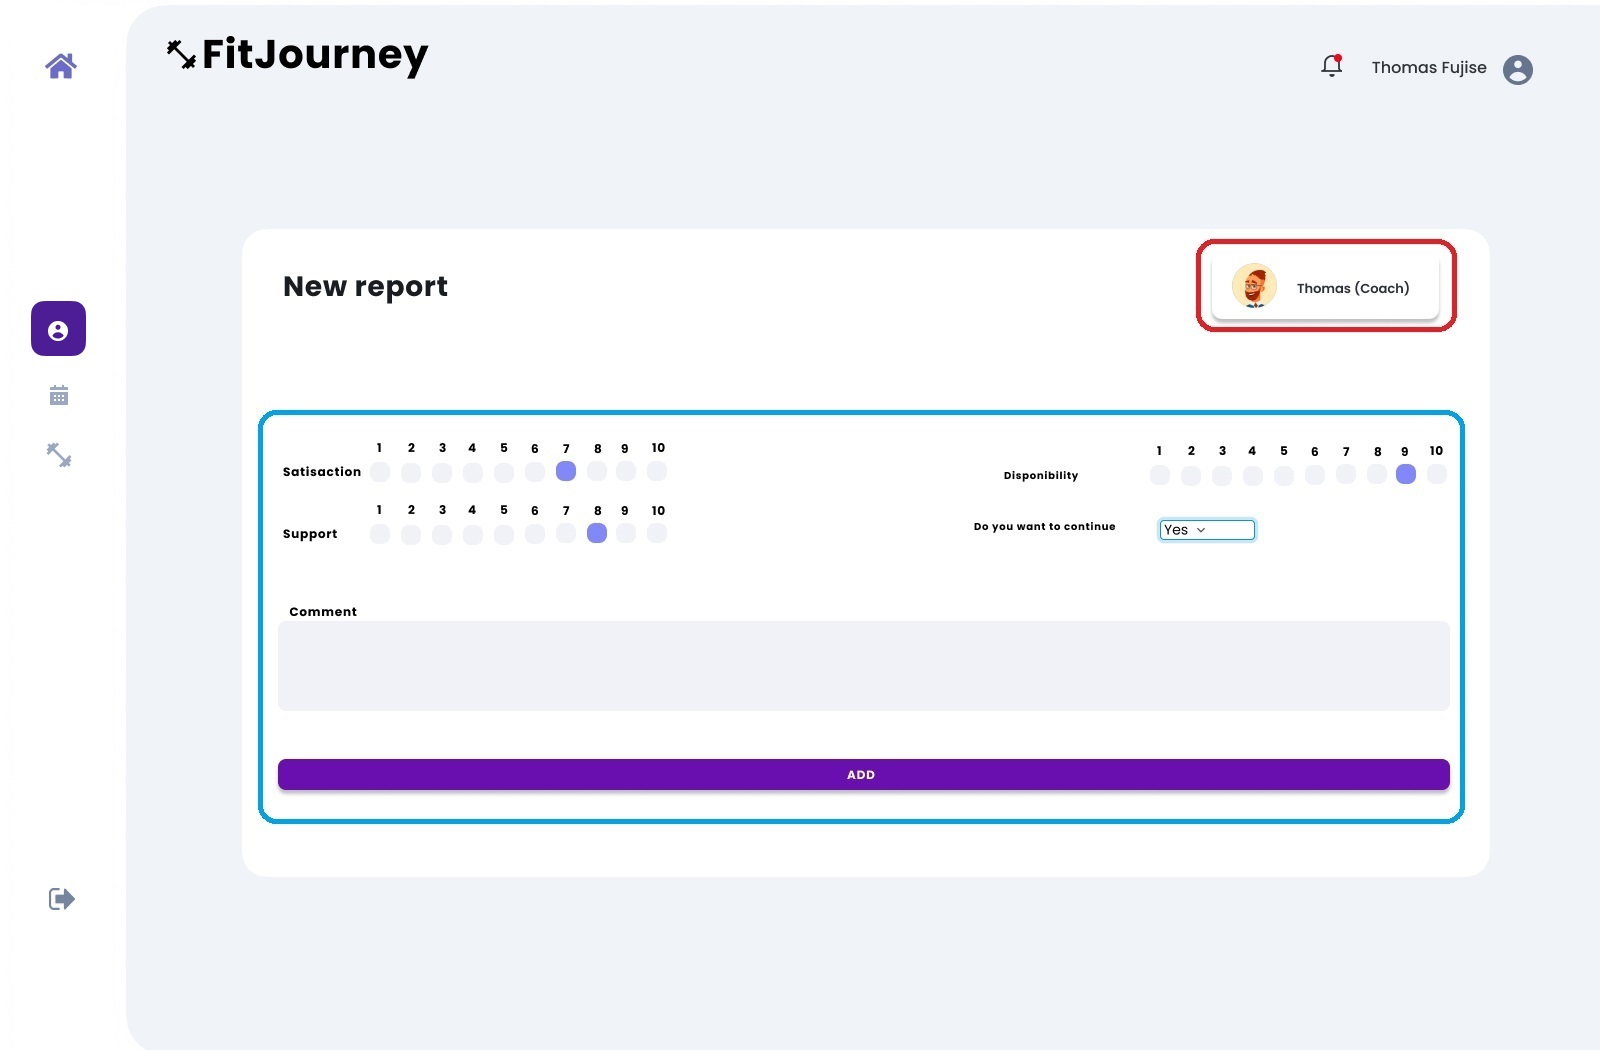
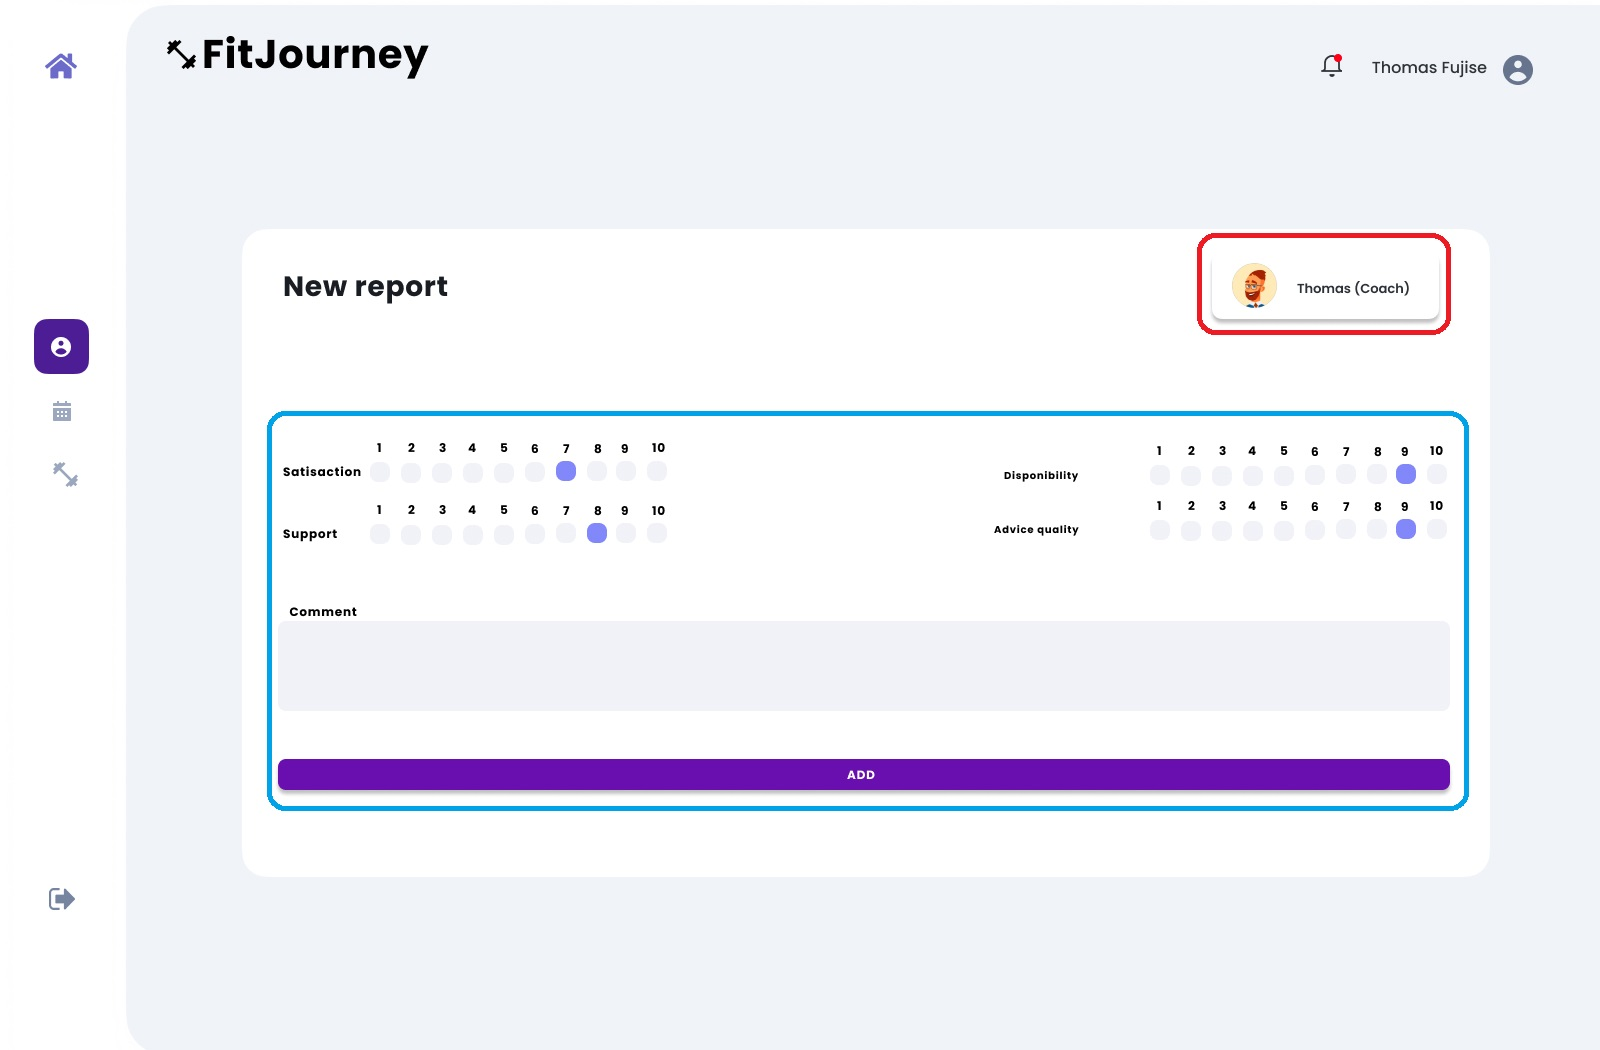
Adding the possibility to add coaching review on profile page

diff --git a/src/apps/templates/client/profile.html b/src/apps/templates/client/profile.html
@@ -166,7 +166,16 @@
         </div>
       </div>
       <div class="card card-body h-auto" style="width: 18rem; float: right;">
-        <h5 class="card-header">Reports</h5>
+        <div class="card-header">
+        <div class="row align-items-center">
+          <div class="col-8">
+            <h3 class="mb-0">Reports </h3>
+          </div>
+          <div class="col-4 text-right">
+            <a href="{{ url_for('client_blueprint.add_review', field1=reviewFields[1], field2=reviewFields[2], field3=reviewFields[3], field4=reviewFields[4] , type="COACHING", target=reviewTargetId) }}" class="btn btn-sm btn-secondary">Add new review</a>
+          </div>
+        </div>
+      </div>
         <table class="table">
             <thead>
                 <tr>
@@ -185,7 +194,7 @@
                     {{ review.date }}
                 </td>
                 <td>
-                  <a href="{{ url_for('client_blueprint.review', Type=review.type, Date=review.date, Field1=review.Field1, Field2=review.Field2, Field3=review.Field3, Field4=review.Field4, Comment=review.comment, Client=review.id_client, Target=review.target_id) }}">Details</a>
+                  <a class="btn btn-sm btn-primary" href="{{ url_for('client_blueprint.review', Type=review.type, Date=review.date, Field1=review.Field1, Field2=review.Field2, Field3=review.Field3, Field4=review.Field4, Comment=review.comment, Client=review.id_client, Target=review.target_id) }}">Details</a>
                 </td>
             </tr>
             {% endfor %}

diff --git a/src/apps/templates/client/workouts.html b/src/apps/templates/client/workouts.html
@@ -47,7 +47,7 @@
                     {{ workout.heart_rate_avg }}
                 </td>
                 <td>
-                    <a href="{{ url_for('client_blueprint.workout', Id=workout.id, Logo=workout.logo, Type=workout.title, Date=workout.date, Heart_rate_avg=workout.heart_rate_avg, Calories=workout.calories, Duration=workout.duration, Heart_rate_max=workout.heart_rate_max, Client=workout.id_client) }}">Details</a>
+                    <a class="btn btn-sm btn-primary" href="{{ url_for('client_blueprint.workout', Id=workout.id, Logo=workout.logo, Type=workout.title, Date=workout.date, Heart_rate_avg=workout.heart_rate_avg, Calories=workout.calories, Duration=workout.duration, Heart_rate_max=workout.heart_rate_max, Client=workout.id_client) }}">Details</a>
                 </td>
             </tr>
             {% endfor %}

diff --git a/src/apps/client/routes.py b/src/apps/client/routes.py
@@ -9,7 +9,7 @@ Brief   :        Set all the application routes
 # APP
 from apps.client import blueprint
 from apps import db, login_manager
-from apps.authentication.models import User, PhysicalInfo, Subscription, Purchase, CoachingReview, WorkoutReview, Review, Workout, WorkoutType, Session
+from apps.authentication.models import User, PhysicalInfo, Subscription, Purchase, CoachingReview, WorkoutReview, Review, Workout, WorkoutType, Session, CoachedBy
 from apps.client.forms import UpdateForm, AddReviewForm
 from apps.config import Config
 
@@ -121,6 +121,13 @@ def profile():
 	# TODO
 
 	
+	# Get Coaching review fields name 
+	coachingReviewFields = db.session.query(CoachingReview).statement.columns.keys()
+
+	# Get coach id 
+	coachId = db.session.query(CoachedBy.coach_id).filter(CoachedBy.client_id==id).order_by(CoachedBy.end_date.desc()).first()
+
+
 	# Set the average heartRate for all workout made this week
 	current_user.avgHeartRate = avgHeartRate[0]
 
@@ -172,24 +179,32 @@ def profile():
 				saver.save(os.path.join(Config.UPLOAD_FOLDER, pic_name))
 				flash("Account Updated successfully !")
 				return render_template("client/profile.html",
-						form=update_form
+						form=update_form,
+						reviewFields=coachingReviewFields,
+						reviewTargetId=coachId
 				)		
 			except:
 				flash("Error! Looks like there was a problem.. try again!")
 				return render_template("client/profile.html",
-						form=update_form
+						form=update_form,
+						reviewFields=coachingReviewFields,
+						reviewTargetId=coachId
 						)
 		else:
 			db.session.commit()
 			flash("User Updated successfully !")
 			return render_template("client/profile.html", 
-					form=update_form
+					form=update_form,
+					reviewFields=coachingReviewFields,
+					reviewTargetId=coachId
 					)
 	else:
 		return render_template("client/profile.html", segment='profile',
 				form=update_form,
 				id = id,
-				physicalInfo=physicalInfo)
+				physicalInfo=physicalInfo,
+				reviewFields=coachingReviewFields,
+				reviewTargetId=coachId)
 
 	return render_template("client/profile.html", segment='profile')
 
@@ -257,8 +272,13 @@ def add_review():
 		if request.form['type'] == "WORKOUT":
 			newWorkoutReview = WorkoutReview(id= newReview.id,difficulty=request.form['field1'], feel=request.form['field2'], fatigue=request.form['field3'], energy=request.form['field4'], target_id=request.form['target'])
 			db.session.add(newWorkoutReview)
-			db.session.commit()
+			flash("Your workout review is added")
+		elif request.form['type'] == "COACHING" :
+			newCoachingReview = CoachingReview(id=newReview.id,satisfaction=request.form['field1'], support=request.form['field2'], disponibility=request.form['field3'], advice=request.form['field4'], target_id=request.form['target'])
+			db.session.add(newCoachingReview)
+			flash("Your coaching review is added")
 
+		db.session.commit()
 		
 	return render_template('client/add_review.html', segment="add_review", form=add_review_form, reviewFields=reviewFields)
 

diff --git a/docs/logbook.md b/docs/logbook.md
@@ -458,3 +458,7 @@ J'ai pu terminer la page d'ajout de review à 90%, il ne manque plus qu'à modif
 ### Mardi, 17 Mai 2022
 
 Je vais commencer par modifier la base de données pour passer de "SESSION_REVIEW" à "WORKOUT_REVIEW" car comme réfléchi hier, il est plus intéressant de pouvoir mettre une review sur un entrainement que sur une session car certain workout ne sont pas une session et le retour sur ces entrainements peuvent intéressé le coach.
+
+J'ai pu tout modifier, il faut maintenant que je fasse en sorte qu'un entrainement ne peut avoir qu'une seul review pour éviter que l'utilisateur en publie plusieurs. 
+
+J'ai également fait la modification de la maquette d'ajout de review sur le coaching le 4 champs n'étant plus un select mais un slider comme les autres champs.
